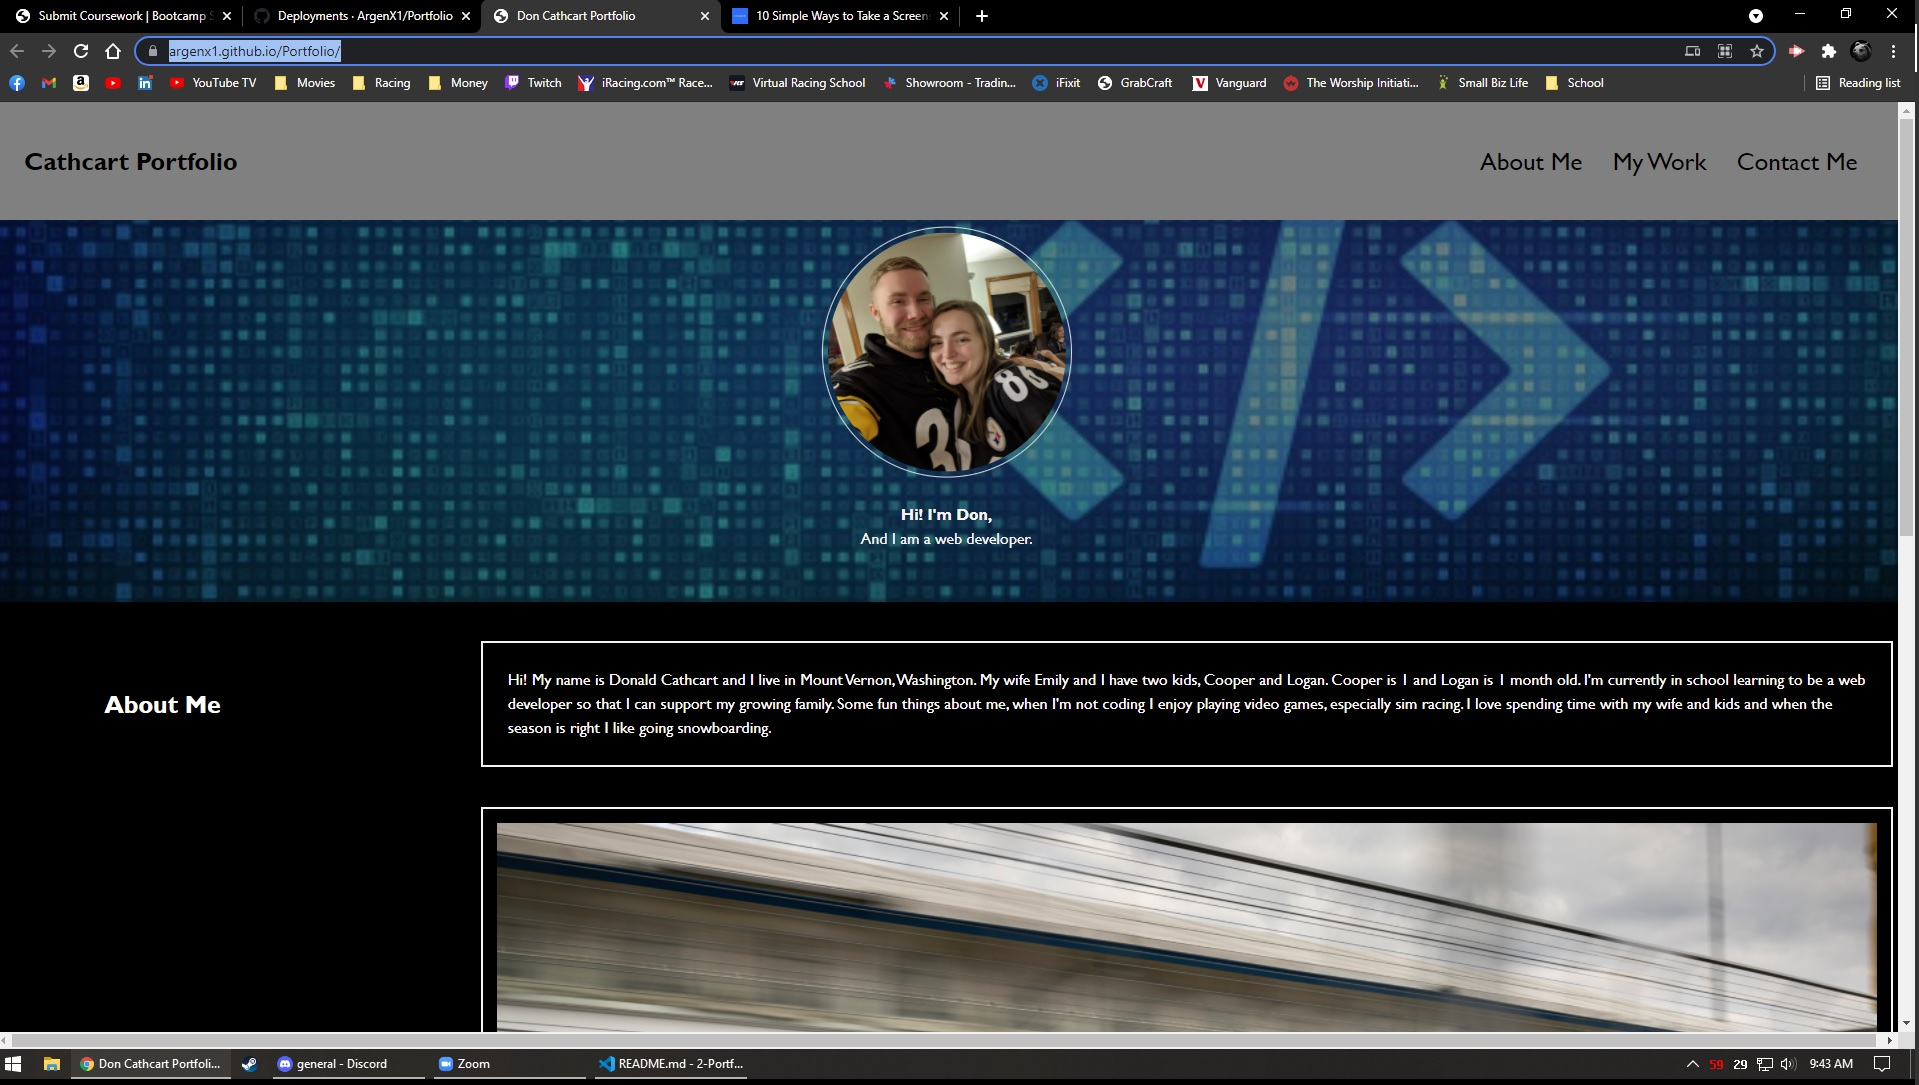
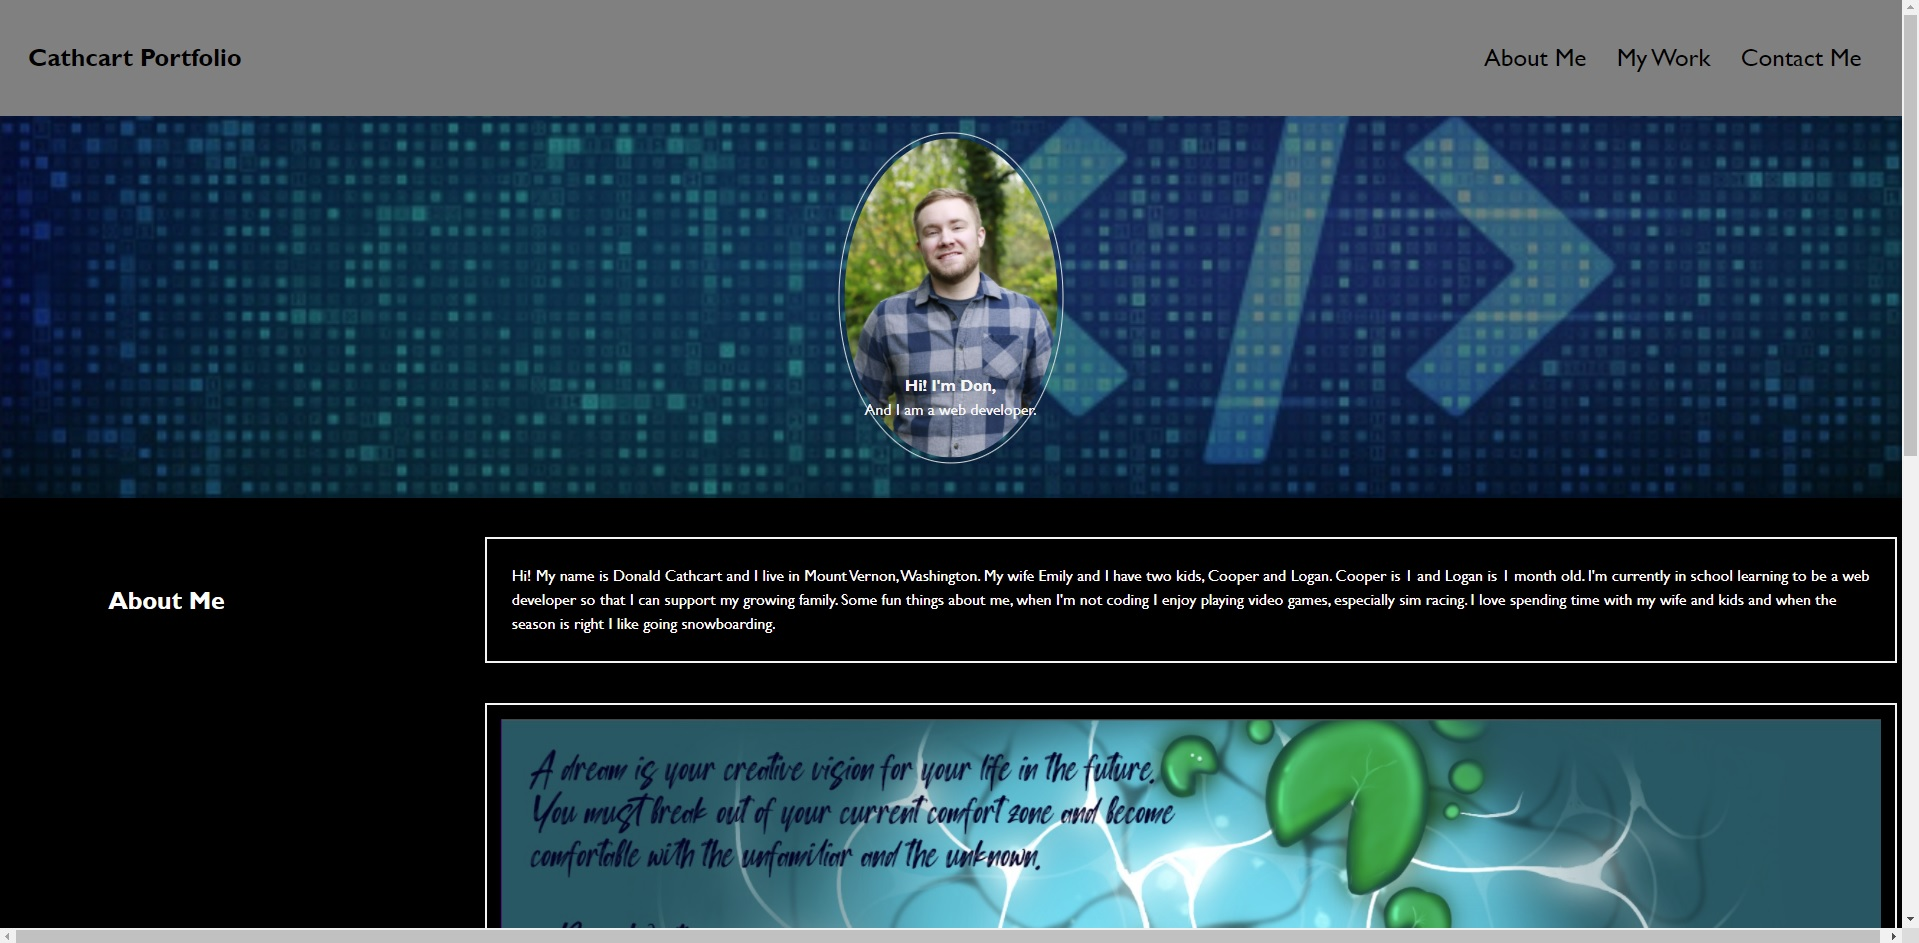
updating profile

diff --git a/index.html b/index.html
@@ -49,34 +49,34 @@
                 <div class="container">
                     <div class="projects" id="larger">
                         <div class="card">
-                            <a href="https://www.mbusa.com/en/vehicles/class/amg-gt/coupe/type-amg" target="_blank">
-                                <img src="./Assets/merc-thumbnail.jpg" alt="project 1">
+                            <a href="https://argenx1.github.io/mind-gro/" target="_blank">
+                                <img src="./Assets/project-1-screen.jpg" alt="mind-gro">
                             </a>
-                            <p>Project 1</p>
+                            <p>Mind Gro</p>
                         </div>
                     </div>  
                     <div class="projects">
                         <div class="card">
-                            <a href="https://www.neversummer.com/" target="_blank">
-                                <img src="./Assets/snowboard-thumbnail.jpg" alt="project 2">
+                            <a href="https://argenx1.github.io/work-day-scheduler/" target="_blank">
+                                <img src="./Assets/work-day-screen.jpg" alt="work-day-planner">
                             </a>
-                            <p>Project 2</p>
+                            <p>Work Day Scheduler</p>
                         </div>
                     </div>
                     <div class="projects">
                         <div class="card">
-                            <a href="https://www.nyan.cat/index.php?cat=original" target="_blank">
-                                <img src="./Assets/code-thumbnail.jpg" alt="project 3">
+                            <a href="https://argenx1.github.io/code-quiz/" target="_blank">
+                                <img src="./Assets/code-quiz-screen.jpg" alt="code-quiz">
                             </a>
-                            <p>Project 3</p>
+                            <p>F1 javaScript Quiz</p>
                         </div>
                     </div>
                     <div class="projects">
                         <div class="card">
-                            <a href="https://www.nissanusa.com/vehicles/sports-cars/gt-r.html" target="_blank">
-                                <img src="./Assets/gtr-thumbnail.jpg" alt="project 4">
+                            <a href="https://argenx1.github.io/password-generator/" target="_blank">
+                                <img src="./Assets/password-screen.jpg" alt="password password-generator">
                             </a>
-                            <p>Project 4</p>
+                            <p>Password Generator</p>
                         </div>
                     </div>
                 </div>
@@ -91,7 +91,10 @@
                         Email: djc.arizona@gmail.com
                     </li>
                     <li>
-                        <a href="https://github.com/ArgenX1/" target="_blank">Click Here for: Github</a>
+                        <a href="https://github.com/ArgenX1/" target="_blank">Github</a>
+                    </li>
+                    <li>
+                        <a href="https://www.linkedin.com/in/donald-cathcart-a48085218/" target="_blank">LinkedIn</a>
                     </li>
                 </ul>
             </section>

diff --git a/Assets/style.css b/Assets/style.css
@@ -68,9 +68,9 @@ nav a{
     border-radius: 50%;
     border: 1px solid #ddd;
     padding: 5px;
-    width: 250px;
+    width: 225px;
     position: relative;
-    top: 50%;
+    top: 60%;
     left: 50%;
     transform: translate(-50%, -50%);
 }
@@ -78,7 +78,7 @@ nav a{
 .hero-text{
     text-align: center;
     position: absolute;
-    top: 85%;
+    top: 80%;
     left: 50%;
     transform: translate(-50%, -50%);
     color: whitesmoke;
